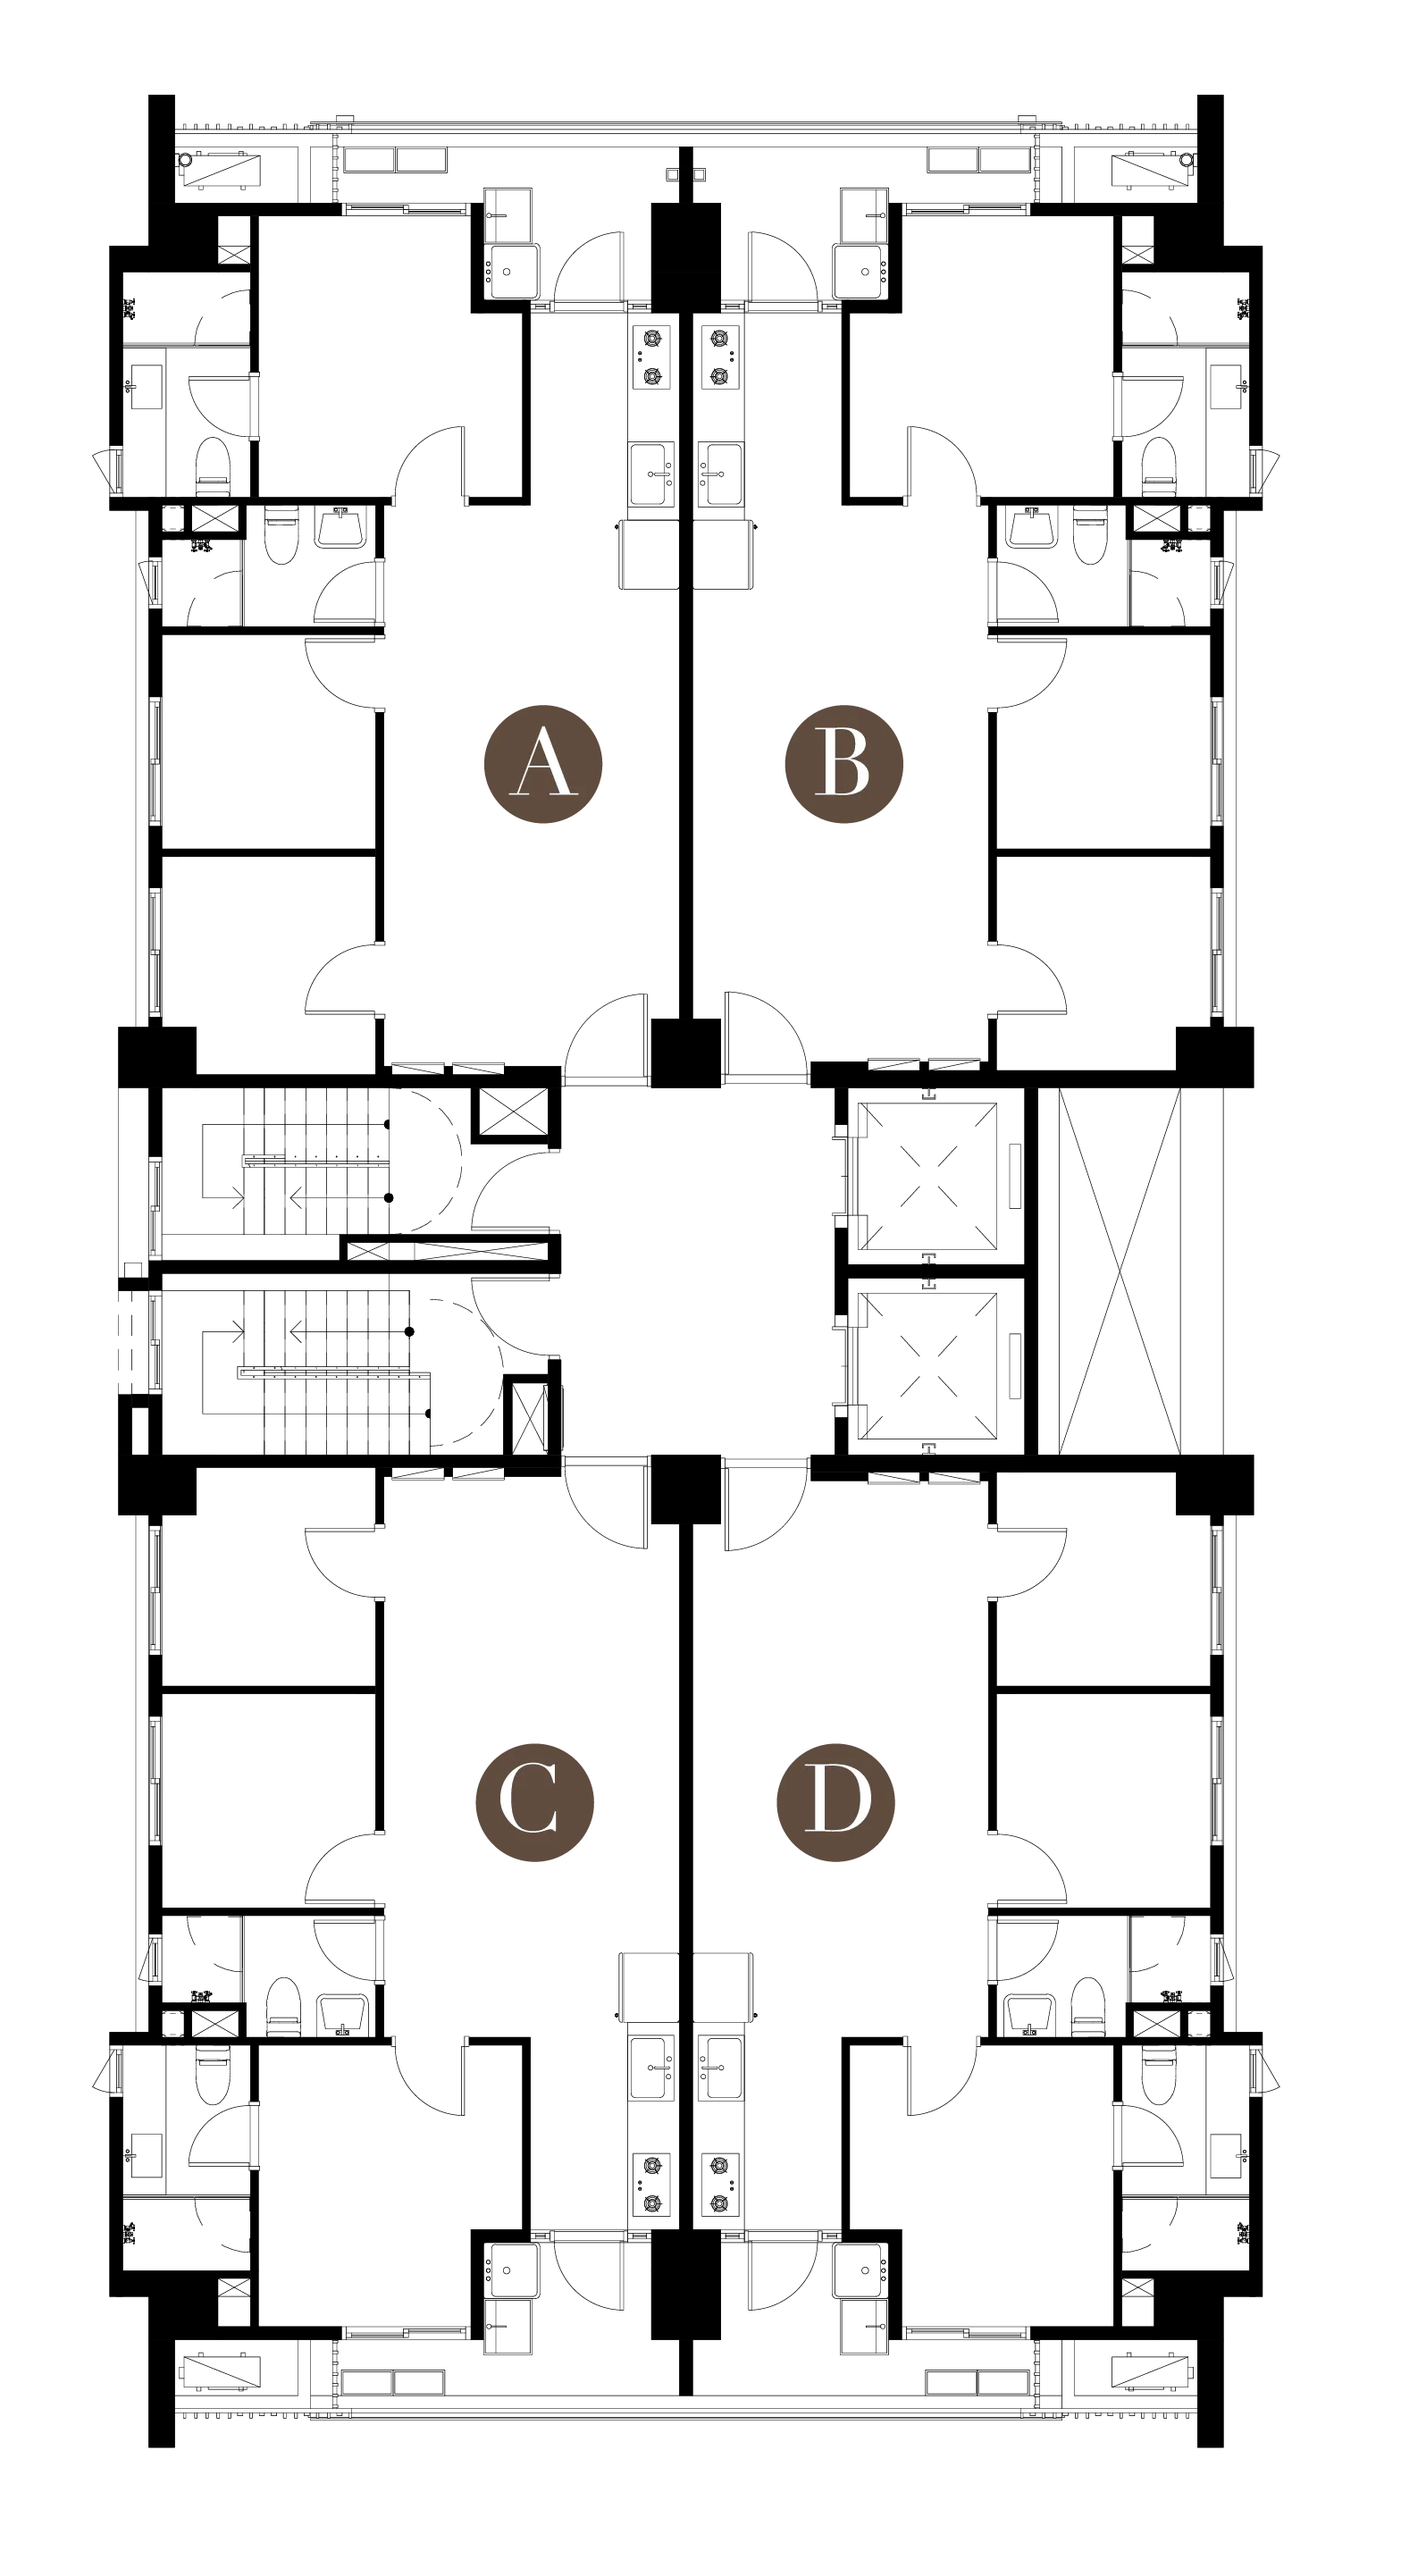
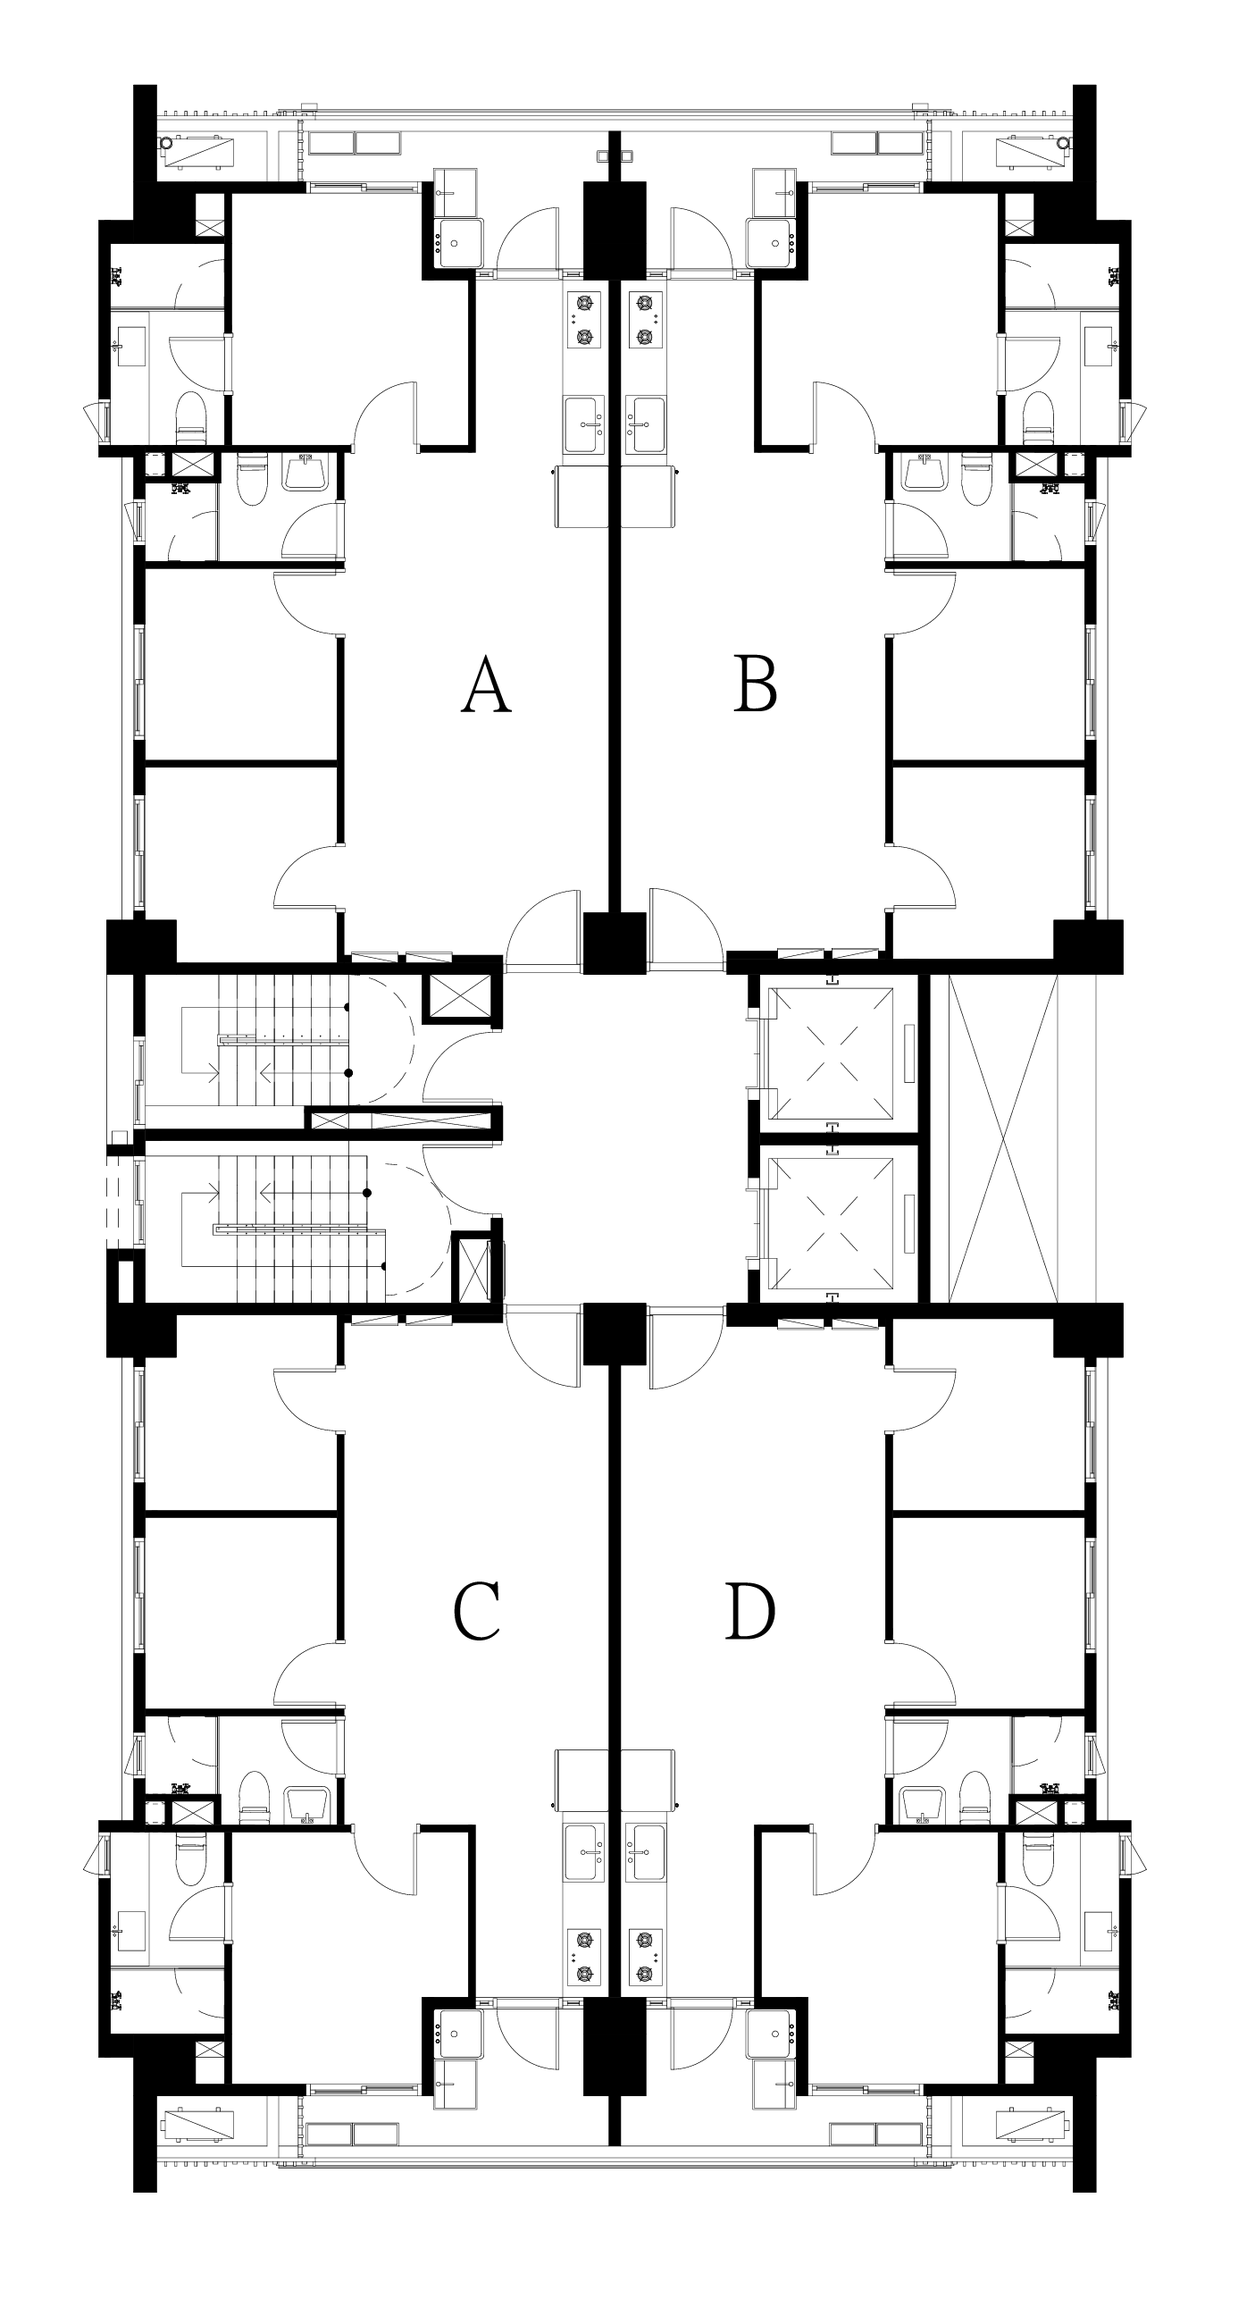
feat. 3f~12f新增abcd

diff --git a/src/components/Floor/floorDetail/FloorDetail.vue b/src/components/Floor/floorDetail/FloorDetail.vue
@@ -22,12 +22,26 @@
         </div>
         <div class="right-box">
           <ScaleDrag :init="initXY" :max-ratio="2">
-            <img
-              :src="currentFloor.img"
-              :alt="floor"
-              class="floor-plan-img"
-              :class="[currentFloor.className]"
-            />
+            <div class="img-box">
+              <img
+                :src="currentFloor.img"
+                :alt="floor"
+                class="floor-plan-img"
+                :class="[currentFloor.className]"
+              />
+              <div class="btn-3f-12f btn-3f-12f-a" v-if="props.floor === '3F-12F'">
+                <img src="../../../assets/img/building/a.png" alt="" srcset="" />
+              </div>
+              <div class="btn-3f-12f btn-3f-12f-b" v-if="props.floor === '3F-12F'">
+                <img src="../../../assets/img/building/b.png" alt="" srcset="" />
+              </div>
+              <div class="btn-3f-12f btn-3f-12f-c" v-if="props.floor === '3F-12F'">
+                <img src="../../../assets/img/building/c.png" alt="" srcset="" />
+              </div>
+              <div class="btn-3f-12f btn-3f-12f-d" v-if="props.floor === '3F-12F'">
+                <img src="../../../assets/img/building/d.png" alt="" srcset="" />
+              </div>
+            </div>
           </ScaleDrag>
         </div>
         <div class="detail-hint">實際家具配置及平面與建材依買賣契約書為準</div>
@@ -62,6 +76,11 @@ const floorDetailMap: Record<string, { img: string; textImg: string; className: 
     img: new URL('@/assets/img/building/3f12f.webp', import.meta.url).href,
     textImg: new URL('@/assets/img/building/3f12f_text.min.svg', import.meta.url).href,
     className: 'floor-3F-12F',
+  },
+  '1MF': {
+    img: new URL('@/assets/img/building/1mf.webp', import.meta.url).href,
+    textImg: new URL('@/assets/img/building/1mf_text.min.svg', import.meta.url).href,
+    className: 'floor-1mf',
   },
   '1': {
     img: '',

diff --git a/src/assets/scss/building/_building-view.scss b/src/assets/scss/building/_building-view.scss
@@ -342,17 +342,66 @@
         align-items: center;
         position: relative;
         margin-right: 2vw;
-
-        img {
-          width: 46%;
+        .img-box {
           position: relative;
-          @media all and (max-width: 1400px) {
-            width: 65%;
+          display: flex;
+          justify-content: center;
+
+          img {
+            width: 53%;
+            position: relative;
+            @media all and (max-width: 1400px) {
+              width: 65%;
+            }
           }
         }
+
         // .imgBoxIn {
         //   z-index: 20;
         // }
+
+        .btn-3f-12f {
+          position: absolute;
+          width: 9%;
+          z-index: 20;
+          img {
+            transition: all 0.25s ease-in-out;
+          }
+
+          &:hover {
+            img {
+              scale: 1.2;
+            }
+          }
+        }
+        .btn-3f-12f-a {
+          top: 27%;
+          left: 41.5%;
+          @media all and (max-width: 1400px) {
+            left: 40%;
+          }
+        }
+        .btn-3f-12f-b {
+          top: 27%;
+          right: 38.5%;
+          @media all and (max-width: 1400px) {
+            right: 38%;
+          }
+        }
+        .btn-3f-12f-c {
+          top: 68%;
+          left: 41.5%;
+          @media all and (max-width: 1400px) {
+            left: 40%;
+          }
+        }
+        .btn-3f-12f-d {
+          top: 68%;
+          right: 38.5%;
+          @media all and (max-width: 1400px) {
+            right: 38%;
+          }
+        }
 
         .img-zoom-in {
           z-index: 20;

diff --git a/src/components/Floor/floorMenu/FloorMenu.vue b/src/components/Floor/floorMenu/FloorMenu.vue
@@ -6,7 +6,7 @@
         v-for="floor in floorList"
         :key="floor"
         class="floor"
-        @click="floor !== '1F' && floor !== '1MF' && $emit('selectFloor', floor)"
+        @click="floor !== '1F' && $emit('selectFloor', floor)"
       >
         {{ floor }}
       </div>

diff --git a/src/components/Floor/floorView/FloorView.vue b/src/components/Floor/floorView/FloorView.vue
@@ -194,7 +194,8 @@ const switchImage = async (newMode: 'day' | 'night') => {
   emit('switchMode', newMode) // ← 將模式傳出去
 }
 
-onMounted(() => {
+onMounted(async () => {
+  await nextTick() // 等待 DOM 渲染完成
   runAnimation()
 })
 </script>
